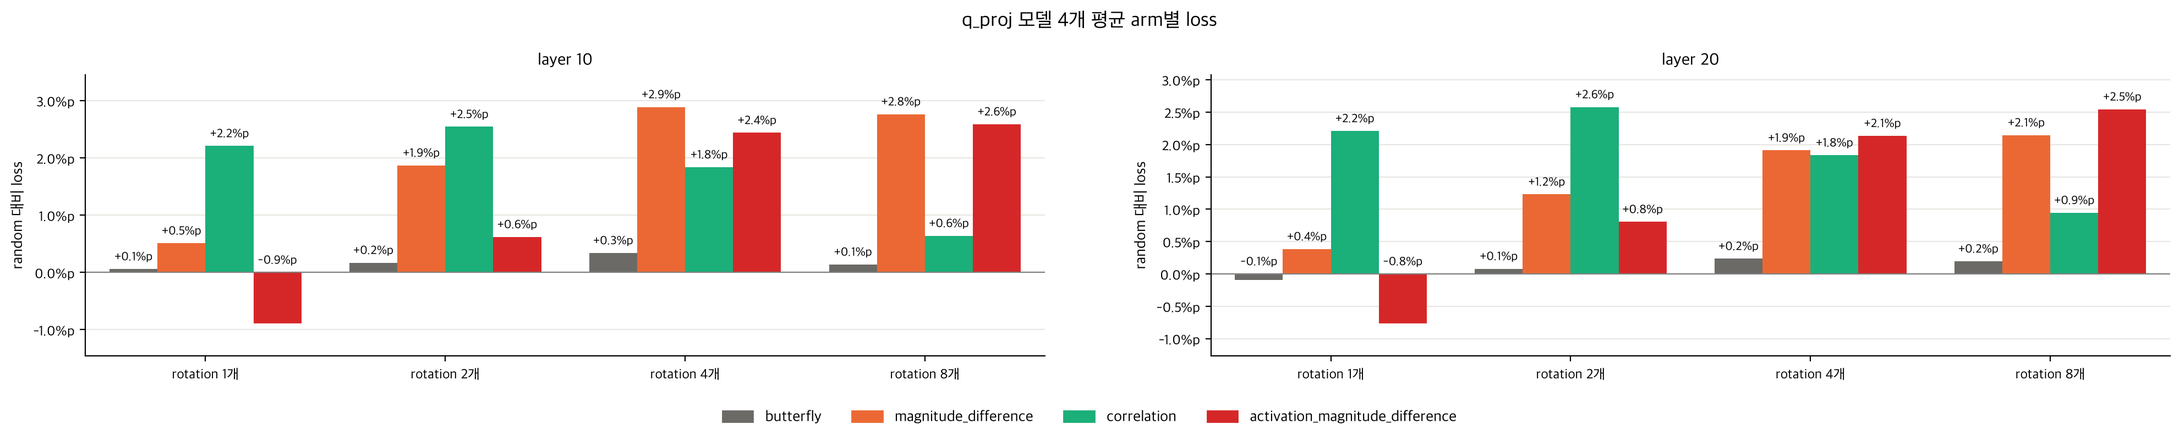
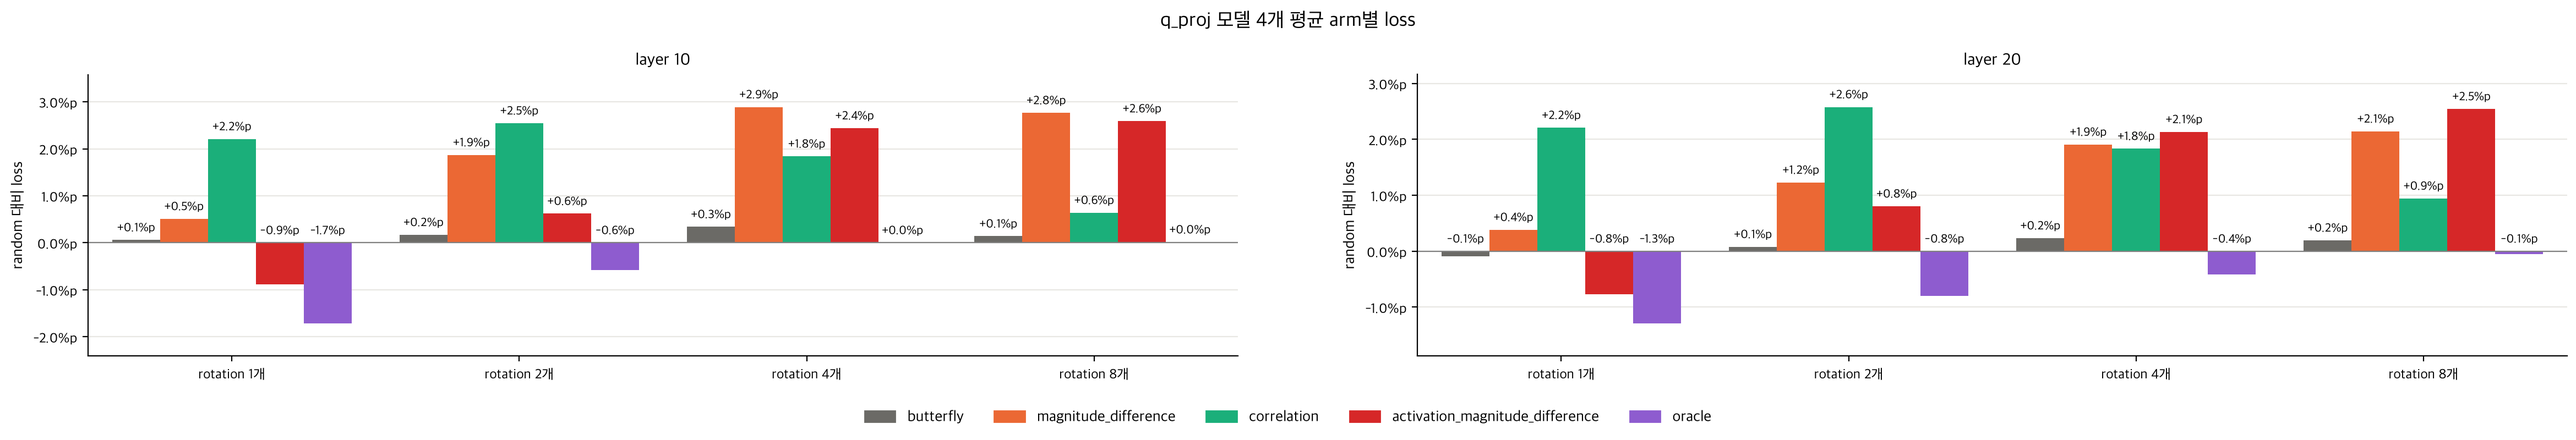
oracle arm 실험 추가

diff --git a/utils/pairing.py b/utils/pairing.py
@@ -5,8 +5,51 @@ import torch
 from torch import Tensor
 
 # scaling은 rotation 없이 alpha만 학습, random은 pair를 무작위로 고르는 현행 구현, butterfly는 통계를 보지 않는 고정 패턴
-# 나머지는 pair 점수가 큰 순서로 고르는 정렬 arm
-Arm = Literal["scaling", "random", "butterfly", "magnitude_difference", "magnitude_similarity", "correlation", "activation_magnitude_difference"]
+# 나머지는 pair 점수가 큰 순서로 고르는 정렬 arm, oracle은 대신 range를 직접 봄
+Arm = Literal["scaling", "random", "butterfly", "magnitude_difference", "magnitude_similarity", "correlation", "activation_magnitude_difference", "oracle"]
+# oracle이 pair마다 훑는 각도 수, theta는 나중에 다시 학습하므로 순위만 나오면 됨
+NUM_ORACLE_ANGLES = 16
+# pair를 한 번에 다 잡으면 행 × pair × 각도라 메모리 때문에 이만큼씩 나눔
+ORACLE_CHUNK_SIZE = 512
+# rotation은 두 channel만 바꾸므로, 나머지의 최대와 최소는 상위와 하위 3개만 있으면 남음
+NUM_EXTREMES = 3
+
+
+def compute_oracle_score(
+    group: Tensor,
+    first: Tensor,
+    second: Tensor,
+) -> Tensor:
+    # pair를 가장 좋은 각도로 한 번 돌렸을 때 줄어드는 range 제곱의 행 평균
+    angles = torch.arange(NUM_ORACLE_ANGLES, device=group.device) * (2 * torch.pi / NUM_ORACLE_ANGLES)
+    cos, sin = angles.cos(), angles.sin()
+    top_values, top_indices = group.topk(NUM_EXTREMES, dim=1)
+    bottom_values, bottom_indices = group.topk(NUM_EXTREMES, dim=1, largest=False)
+    original_range = (top_values[:, 0] - bottom_values[:, 0]).pow(2)
+
+    scores = []
+    for start in range(0, len(first), ORACLE_CHUNK_SIZE):
+        chunk_first = first[start : start + ORACLE_CHUNK_SIZE]
+        chunk_second = second[start : start + ORACLE_CHUNK_SIZE]
+        # 1. pair가 빼간 자리를 건너뛰고 남는 최대와 최소
+        keeps_top = (top_indices[:, None, :] != chunk_first[None, :, None]) & (top_indices[:, None, :] != chunk_second[None, :, None])
+        keeps_bottom = (bottom_indices[:, None, :] != chunk_first[None, :, None]) & (bottom_indices[:, None, :] != chunk_second[None, :, None])
+        rest_max = torch.where(keeps_top, top_values[:, None, :], -torch.inf).amax(dim=2)
+        rest_min = torch.where(keeps_bottom, bottom_values[:, None, :], torch.inf).amin(dim=2)
+
+        # 2. 각도마다 돌린 두 channel과 나머지로 range를 다시 재고, 가장 많이 줄어든 각도의 값
+        first_columns = group[:, chunk_first]
+        second_columns = group[:, chunk_second]
+        best = None
+        for angle_cos, angle_sin in zip(cos, sin):
+            rotated_first = angle_cos * first_columns - angle_sin * second_columns
+            rotated_second = angle_sin * first_columns + angle_cos * second_columns
+            high = torch.maximum(rest_max, torch.maximum(rotated_first, rotated_second))
+            low = torch.minimum(rest_min, torch.minimum(rotated_first, rotated_second))
+            drop = (original_range[:, None] - (high - low).pow(2)).mean(0)
+            best = drop if best is None else torch.maximum(best, drop)
+        scores.append(best)
+    return torch.cat(scores)
 
 
 def compute_pair_score(
@@ -25,9 +68,11 @@ def compute_pair_score(
         return -(magnitude[first] - magnitude[second]).abs()
     if arm == "correlation":
         return torch.corrcoef(group.T).nan_to_num()[first, second].abs()
-    # activation_magnitude_difference는 weight 크기에 입력 크기를 곱함
-    magnitude = group.abs().mean(0) * group_input_magnitude
-    return (magnitude[first] - magnitude[second]).abs()
+    if arm == "activation_magnitude_difference":
+        # weight 크기에 입력 크기를 곱함
+        magnitude = group.abs().mean(0) * group_input_magnitude
+        return (magnitude[first] - magnitude[second]).abs()
+    return compute_oracle_score(group, first, second)
 
 
 def build_pairs(

diff --git a/plots/arm_loss_rotations.py b/plots/arm_loss_rotations.py
@@ -12,7 +12,7 @@ class Config:
     layers: list[int] = field(default_factory=lambda: [10, 20])
     linear_name: str = "self_attn.q_proj"
     # magnitude_similarity는 dummy가 많아 rotation을 덜 한 탓과 구분되지 않으므로 뺌
-    arms: list[str] = field(default_factory=lambda: ["butterfly", "magnitude_difference", "correlation", "activation_magnitude_difference"])
+    arms: list[str] = field(default_factory=lambda: ["butterfly", "magnitude_difference", "correlation", "activation_magnitude_difference", "oracle"])
     num_rotations: list[int] = field(default_factory=lambda: [1, 2, 4, 8])
     num_steps: int = 200
 

diff --git a/utils/plot.py b/utils/plot.py
@@ -17,6 +17,7 @@ ARM_COLORS = {
     "magnitude_similarity": "#b5651d",
     "correlation": "#1baf7a",
     "activation_magnitude_difference": "#d62728",
+    "oracle": "#8e5ccf",
 }
 LINEAR_NAMES = {"self_attn.q_proj": "q_proj", "mlp.gate_proj": "gate_proj"}
 BAR_INCHES = 0.45
@@ -35,6 +36,7 @@ ARM_LABELS = {
     "magnitude_similarity": "magnitude\nsimilarity",
     "correlation": "correlation",
     "activation_magnitude_difference": "activation\nmagnitude\ndifference",
+    "oracle": "oracle",
 }
 # %로 그리는 unit, 나머지는 format_value에서 개수와 소수로 표시
 PERCENT_UNITS = ["%", "%p"]

diff --git a/plots/pair_score.py b/plots/pair_score.py
@@ -13,7 +13,7 @@ class Config:
     layer: int = 10
     linear_name: str = "self_attn.q_proj"
     # random과 butterfly는 점수가 없고, magnitude_similarity는 dummy가 많아 rotation을 덜 한 탓과 구분되지 않으므로 뺌
-    arms: list[str] = field(default_factory=lambda: ["magnitude_difference", "correlation", "activation_magnitude_difference"])
+    arms: list[str] = field(default_factory=lambda: ["magnitude_difference", "correlation", "activation_magnitude_difference", "oracle"])
     num_rotations: int = 8
     num_steps: int = 200
 
